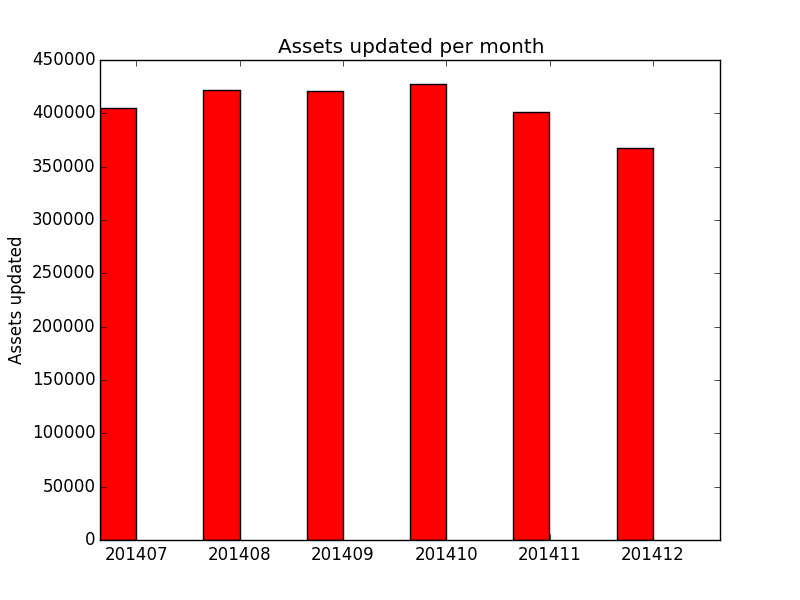
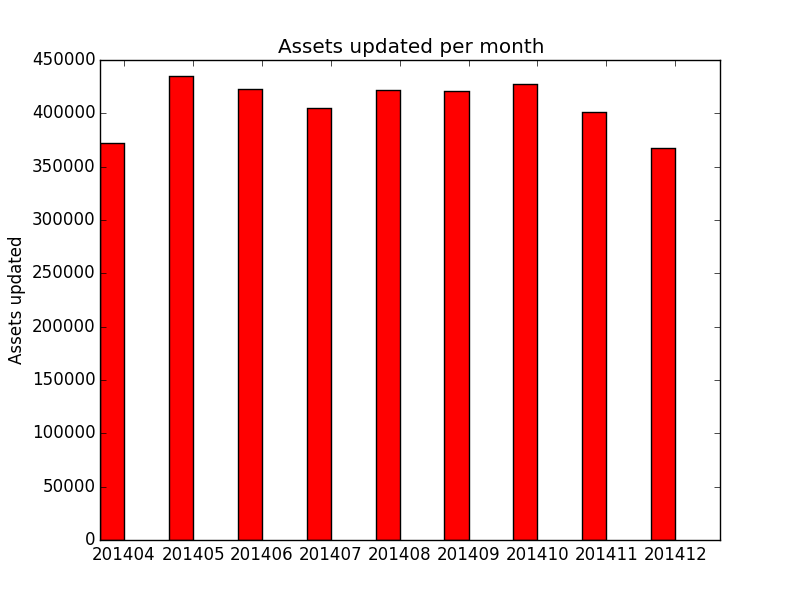
Added ICRA route
Added route for ICRA, restored layout.html which I accidentally deleted,
and added "New Funds Since Last Refresh" to the ODS page

Changed region(s): [[0.125, 0.12, 0.875, 0.93]]

diff --git a/templates/layout.html b/templates/layout.html
@@ -1,0 +1,29 @@
+<!doctype html>
+{% extends "bootstrap/base.html" %}
+{% block title %}Data Import Dashboard{% endblock %}
+
+
+{% block navbar %}
+
+    <div class="navbar navbar-inverse navbar-fixed-top" role="navigation">
+      <div class="container">
+        <div class="navbar-header">
+          <button type="button" class="navbar-toggle collapsed" data-toggle="collapse" data-target=".navbar-collapse">
+            <span class="sr-only">Toggle navigation</span>
+            <span class="icon-bar"></span>
+            <span class="icon-bar"></span>
+            <span class="icon-bar"></span>
+          </button>
+          <a class="navbar-brand" href="/">Data Import Dashboard</a>
+        </div>
+        <div class="navbar-collapse collapse">
+          <ul class="nav navbar-nav">
+            <li><a href="/">ODS Export</a></li>
+			<li><a href="/">Hindsight</a></li>
+			<li><a href="/ICRA">ICRA</a></li>
+          </ul>
+        </div><!--/.nav-collapse -->
+      </div>
+    </div>
+
+{% endblock %}

diff --git a/templates/ODS.html b/templates/ODS.html
@@ -14,7 +14,7 @@
 
 <br>Latest PeriodIdCreated: {{ latestAssetDate }}
 
-<br>Assets Imported This Month: {{ getAssetsUpdatedThisMonth }}
+<br>Assets Imported This Month: {{ AssetsUpdatedThisMonth }}
 
 <br>
 <img src = "/static/asset.png" width="500">
@@ -27,11 +27,13 @@
 
 <h2>Import Portfolio</h2>
 
-Last Run: 1/23/2015
+<br>New Funds This Month: {{NewFundsThisMonth}}
+
+<br>New Funds Since Last Refresh: {{fundsSinceRefresh}}
 
 <br>
+<img src = "/static/newFunds.png" width="500">
 
-<button id="portfolio" class="float-left submit-button" >Run Import Portfolio</button>
 
 
 

diff --git a/templates/ICRA.html b/templates/ICRA.html
@@ -1,0 +1,12 @@
+{%extends "layout.html"%}
+
+{%block content%}
+
+
+<br><br><br>
+
+<h1>ICRA</h1>
+
+
+{% endblock %}
+

diff --git a/SQLHelper.py b/SQLHelper.py
@@ -4,6 +4,7 @@ import datetime
 import dateutil.relativedelta
 import numpy as np
 import matplotlib.pyplot as plt
+import calendar
 
 
 
@@ -37,7 +38,7 @@ def generateAssetGraph(date):
 	monthsList.append(d.strftime("%Y%m"))
 	countlist.append(getAssetsUpdatedThisMonth(d.strftime("%Y%m")))
 
-	for x in range(5):
+	for x in range(8):
 		d = d - dateutil.relativedelta.relativedelta(months=1)
 		monthsList.append(str(d.strftime("%Y%m")))
 		countlist.append(getAssetsUpdatedThisMonth(d.strftime("%Y%m")))
@@ -46,7 +47,7 @@ def generateAssetGraph(date):
 	monthsList.reverse()
 
 	width = .35
-	ind = np.arange(6)
+	ind = np.arange(9)
 	fig, ax = plt.subplots()
 	ax.bar(ind, countlist, width, color='r')
 	ax.set_ylabel('Assets updated')
@@ -54,3 +55,47 @@ def generateAssetGraph(date):
 	ax.set_xticks(ind+width)
 	ax.set_xticklabels( monthsList )
 	plt.savefig("./Static/asset")
+
+
+def getNewFundsThisMonth(d = datetime.datetime.now()):
+
+	cnxn = po.connect('DRIVER={SQL Server Native Client 10.0};SERVER=GLDB;DATABASE=siGlobalResearch;Trusted_Connection=yes')
+	cursor = cnxn.cursor()
+	d = d.replace(day = 1)
+	d2 = d + dateutil.relativedelta.relativedelta(months=1)
+
+	d = d.strftime("%m-%d-%Y")
+	d2 = d2.strftime("%m-%d-%Y")
+
+	cursor.execute("SELECT COUNT(*) count FROM dbo.siFund WHERE dCreated >= '%s' and dCreated <= '%s' " % (str(d), str(d2)))
+	result = cursor.fetchall()
+
+	for row in result:
+	    return row.count
+
+def generateNewFundsGraph(date = datetime.datetime.now()):
+
+	d = date
+	monthsList = []
+	countlist = []
+
+	monthsList.append(d.strftime("%Y%m"))
+	countlist.append(getNewFundsThisMonth())
+
+	for x in range(8):
+		d = d - dateutil.relativedelta.relativedelta(months=1)
+		monthsList.append(str(d.strftime("%Y%m")))
+		countlist.append(getNewFundsThisMonth(d))
+
+	countlist.reverse()
+	monthsList.reverse()
+
+	width = .35
+	ind = np.arange(9)
+	fig, ax = plt.subplots()
+	ax.bar(ind, countlist, width, color='r')
+	ax.set_ylabel('New funds')
+	ax.set_title('New funds per month')
+	ax.set_xticks(ind+width)
+	ax.set_xticklabels( monthsList )
+	plt.savefig("./Static/newFunds")

diff --git a/dataDash.py b/dataDash.py
@@ -16,7 +16,6 @@ SECRET_KEY = 'development key'
 USERNAME = 'admin'
 PASSWORD = 'default'
 
-
 # create our little application :)
 app = Flask(__name__)
 app.config.from_object(__name__)
@@ -37,7 +36,6 @@ def runScript(scriptName):
             db.cursor().executescript(f.read()) 
         db.commit()
 
-
 @app.before_request
 def before_request():
     g.db = connect_db()
@@ -53,13 +51,27 @@ def teardown_request(exception):
 def ODS():
 
     latestAssetDate = SQLHelper.getLatestAssetDate()
-    getAssetsUpdatedThisMonth = SQLHelper.getAssetsUpdatedThisMonth(latestAssetDate)
+    AssetsUpdatedThisMonth = SQLHelper.getAssetsUpdatedThisMonth(latestAssetDate)
+    NewFundsThisMonth = SQLHelper.getNewFundsThisMonth()
 
     SQLHelper.generateAssetGraph(latestAssetDate)
+    SQLHelper.generateNewFundsGraph()
 
-    return render_template('ODS.html',latestAssetDate= latestAssetDate, getAssetsUpdatedThisMonth = getAssetsUpdatedThisMonth)
+    f = open("previous.txt","r")
+    previous = f.readline()
+    f.close()
 
+    fundsSinceRefresh = int(NewFundsThisMonth) - int(previous)
 
+    f = open("previous.txt","w")
+    f.write(str(NewFundsThisMonth))
+    f.close()
+
+    return render_template('ODS.html',latestAssetDate= latestAssetDate, AssetsUpdatedThisMonth = AssetsUpdatedThisMonth, NewFundsThisMonth= NewFundsThisMonth, fundsSinceRefresh = fundsSinceRefresh)
+
+@app.route('/ICRA')
+def ICRA():
+        return render_template('ICRA.html')
 
 if __name__ == '__main__':
     app.run(host='0.0.0.0')
